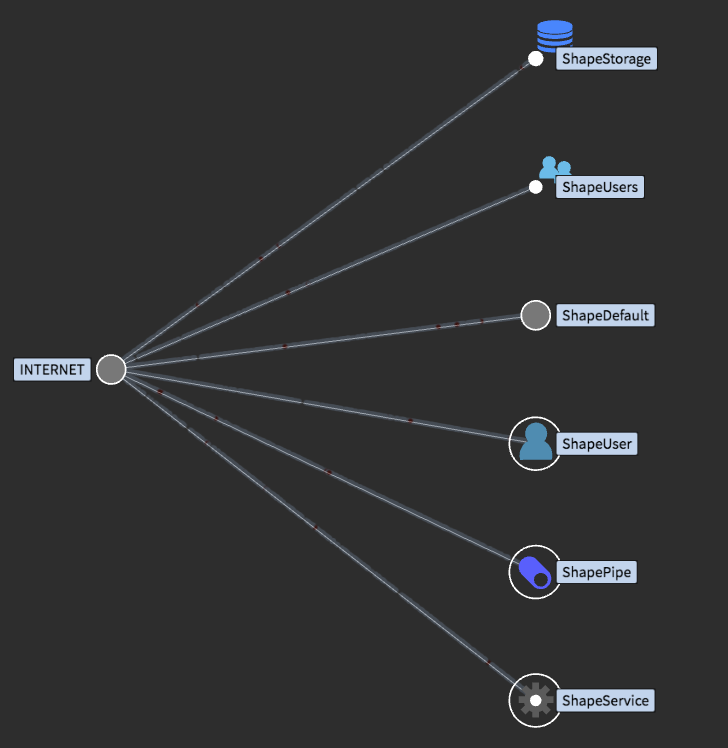
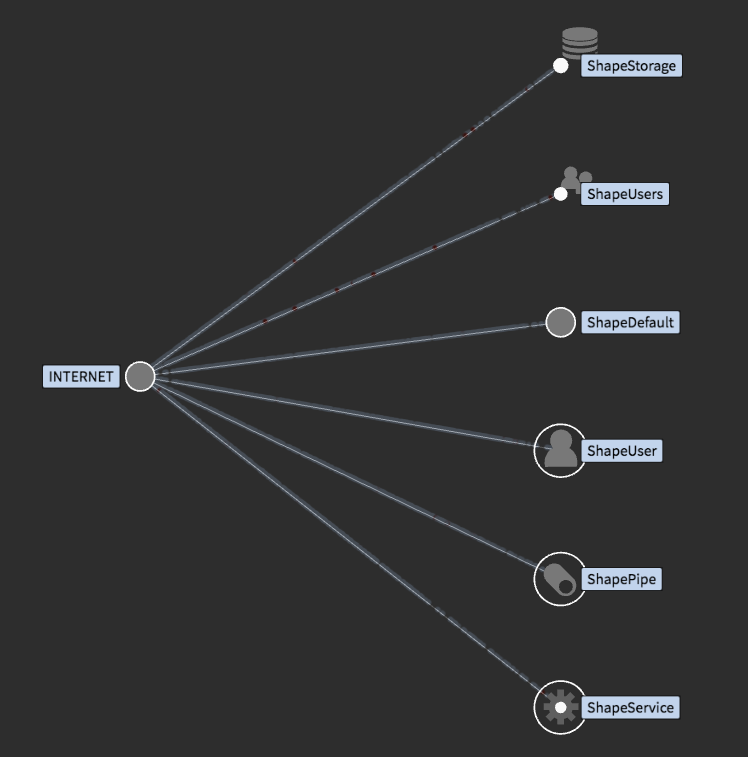
Custom shapes for nodes - Issue #92 - updated based on comments - fixed colors to match vizceral styles

Changed region(s): [[0.0, 0.0, 0.9368, 0.984], [0.6951, 0.5535, 0.9066, 0.6457], [0.5137, 0.5535, 0.5742, 0.5842]]

diff --git a/src/globalStyles.js b/src/globalStyles.js
@@ -57,12 +57,12 @@ class GlobalStyles {
 
     this.shapesStyles = {
       colorShapeDefault: 'rgb(120, 120, 120)',
-      colorShapeBorder: 'rgb(255, 255, 255)',
-      colorShapePipe: 'rgb(91, 91, 255 )',
-      colorShapeUser: 'rgb(10, 142, 179)',
-      colorShapeUsers: 'rgb(10, 190, 234)',
-      colorShapeStorage: 'rgb(10, 134, 255)',
-      colorShapeService: 'rgb(91, 91, 91)'
+      colorShapeBorder: 'rgb(250, 250, 250)',
+      colorShapePipe: 'rgb(120, 120, 120)',
+      colorShapeUser: 'rgb(120, 120, 120)',
+      colorShapeUsers: 'rgb(120, 120, 120)',
+      colorShapeStorage: 'rgb(120, 120, 120)',
+      colorShapeService: 'rgb(110, 110, 110)'
     };
 
     this.updateComputedStyles();
